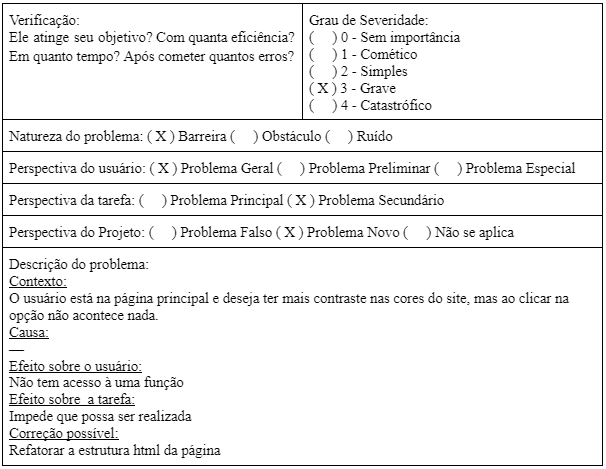
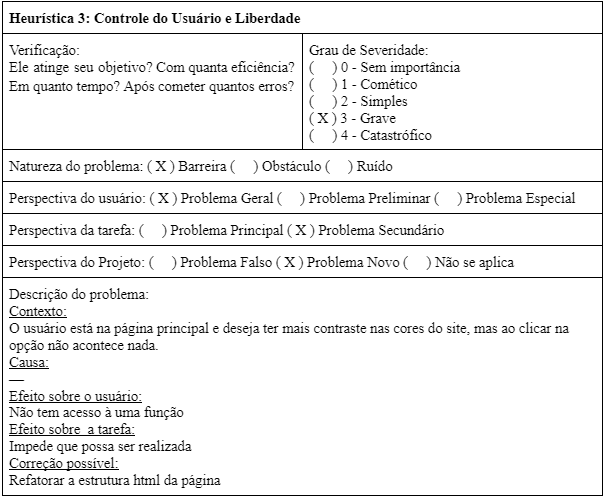
:memo: correção das heuristicas

Changed region(s): [[0.0, 0.0, 1.0, 1.0]]

diff --git a/docs/planejamento/avaliacoes/avaliacaopmdf.md b/docs/planejamento/avaliacoes/avaliacaopmdf.md
@@ -1,7 +1,8 @@
 # Avaliação Heurística
 A avaliação heurística é um método de avaliação de IHC criado para encontrar problemas de usabilidade durante um
 processo de design iterativo (Nielsen e Molich, 1990; Nielse, 1992, 1994b). Esse método de avaliação orienta os 
-avaliadores a inspecionar sistematicamente a interface em busca de problemas que prejudiquem a usabilidade.(Barbosa e Silva,p.281)
+avaliadores a inspecionar sistematicamente a interface em busca de problemas que prejudiquem a usabilidade.(Barbosa e Silva,p.281).
+As figuras 1, 2, 3 são correspondentes à avaliação heurística do site da PMDF.
 
 |![tabela heuristica](../../_media/avaliacaopmdf01.png)|
 |:-----------------------------------------------:|
